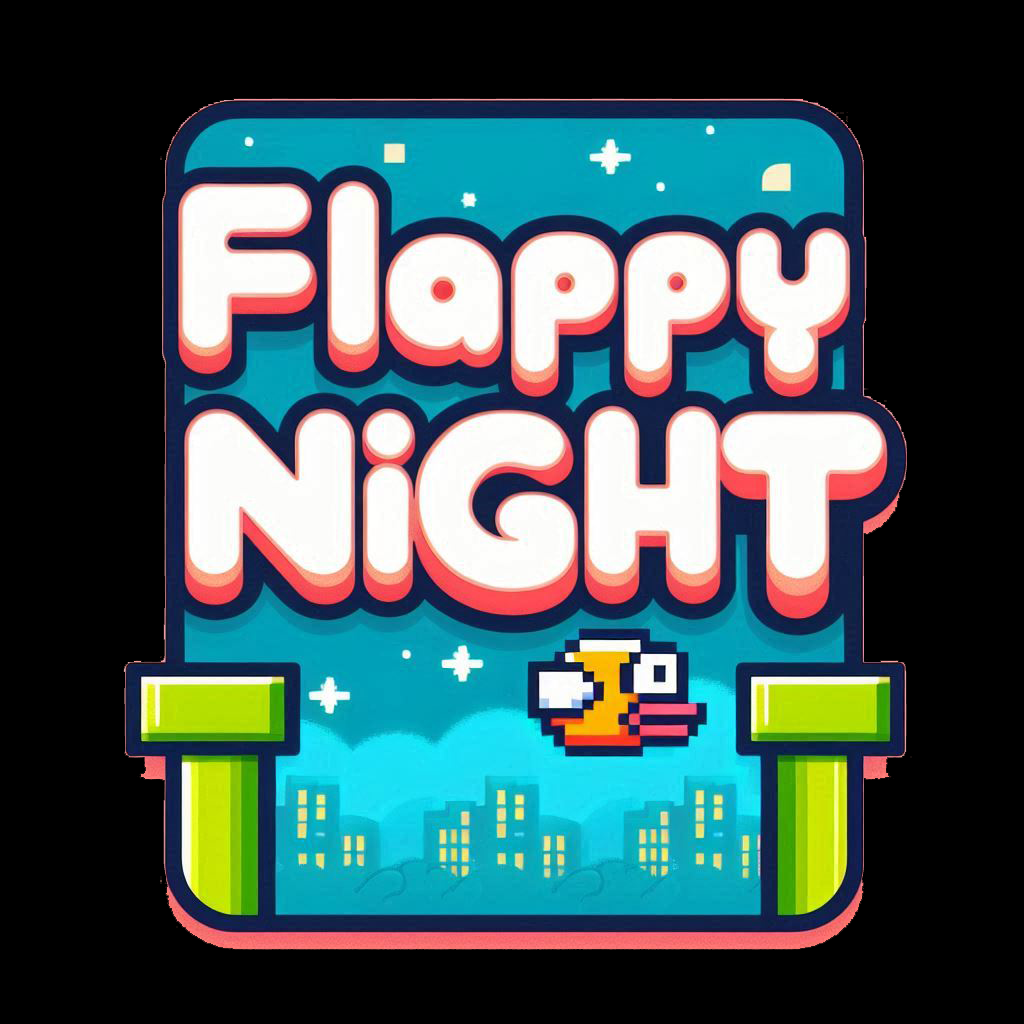
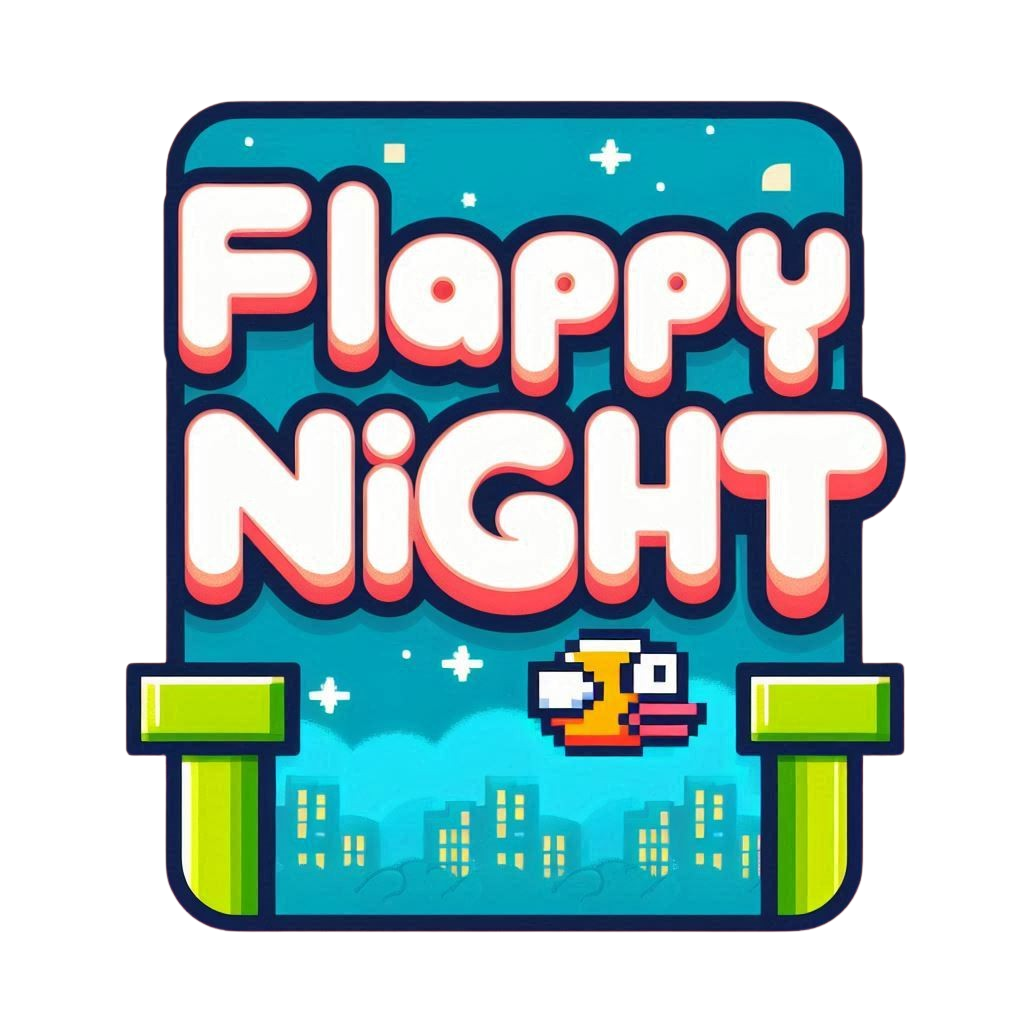
Fix Background Image

diff --git a/FlappyBird/src/GamePlay/Manager/gameLoop.cpp b/FlappyBird/src/GamePlay/Manager/gameLoop.cpp
@@ -18,7 +18,7 @@ static void initGame(Sprites::Sprites& sprites);
 
 static void update(bool& pause, float& spawmTimer, std::list<Pipe::PipeSet>& pipeSets, Sprites::Sprites& sprites, Sprites::SpriteMovement& spriteMovement);
 
-static void draw(const Texture2D& texture, Sprites::Sprites& sprites, std::list<Pipe::PipeSet>& pipeSets, float& spawmTimer, bool& pause,
+static void draw(Texture2D& texture, Sprites::Sprites& sprites, std::list<Pipe::PipeSet>& pipeSets, float& spawmTimer, bool& pause,
 	const Sprites::SpriteMovement& spriteMovement);
 
 static void close(Sprites::Sprites& sprites);
@@ -30,7 +30,7 @@ static Player::Player playerTwo = {};
 static bool isSinglePlayer = true;
 static Music menuMusic;
 static Music gameplayMusic;
-static Texture2D backgroundTexture;
+static Texture2D titleTexture;
 
 void mainLoop()
 {
@@ -46,8 +46,6 @@ void mainLoop()
 	gameState = Menu::Menus::MainMenu;
 	previousMenu = Menu::Menus::MainMenu;
 
-	Texture2D texture = {};
-
 	Sprites::Sprites sprites = {};
 	Sprites::SpriteMovement spriteMovement = {};
 	
@@ -59,7 +57,7 @@ void mainLoop()
 	{
 		update(pause, spawnTimer, pipeSets, sprites, spriteMovement);
 
-		draw(backgroundTexture, sprites, pipeSets, spawnTimer, pause, spriteMovement);
+		draw(titleTexture, sprites, pipeSets, spawnTimer, pause, spriteMovement);
 	}
 
 	close(sprites);
@@ -67,6 +65,12 @@ void mainLoop()
 
 void initGame(Sprites::Sprites& sprites)
 {
+#pragma warning(disable:4244)
+	srand(time(NULL));
+#pragma warning(default:4244)
+
+	InitWindow(static_cast<int>(screenWidth), static_cast<int>(screenHeight), "Flappy Bird");
+	
 	InitAudioDevice();
 	menuMusic = LoadMusicStream("res/main_menu_music.mp3");
 	gameplayMusic = LoadMusicStream("res/gameplay_music.mp3");
@@ -75,22 +79,15 @@ void initGame(Sprites::Sprites& sprites)
 	SetMusicVolume(gameplayMusic, 0.5f);
 	gameplayMusic.looping = true;
 
-	//backgroundTexture = LoadTexture("res/menu_img.png");
 
 	if (!IsMusicStreamPlaying(menuMusic))
 	{
 		PlayMusicStream(menuMusic);
 	}
 
-	
-
-#pragma warning(disable:4244)
-	srand(time(NULL));
-#pragma warning(default:4244)
-
-	InitWindow(static_cast<int>(screenWidth), static_cast<int>(screenHeight), "Flappy Bird");
-
 	Sprites::initSprites(sprites);
+
+	titleTexture = LoadTexture("res/menu_img.png");
 
 	playerOne.frameRec = { 0.0f, 0.0f, (float)sprites.playerOneSheet.width / 3, (float)sprites.playerOneSheet.height };
 
@@ -108,8 +105,6 @@ void update(bool& pause, float& spawmTimer, std::list<Pipe::PipeSet>& pipeSets, 
 
 		if (IsKeyPressed(KEY_ESCAPE))
 			gameState = Menu::Menus::WantToExit;
-
-		
 
 		UpdateMusicStream(menuMusic);
 		break;
@@ -207,7 +202,7 @@ void update(bool& pause, float& spawmTimer, std::list<Pipe::PipeSet>& pipeSets, 
 }
 
 
-void draw(const Texture2D& texture,	Sprites::Sprites& sprites, std::list<Pipe::PipeSet>& pipeSets, float& spawmTimer, bool& pause,
+void draw(Texture2D& texture,	Sprites::Sprites& sprites, std::list<Pipe::PipeSet>& pipeSets, float& spawmTimer, bool& pause,
 	const Sprites::SpriteMovement& spriteMovement)
 {
 	BeginDrawing();
@@ -287,7 +282,7 @@ void close(Sprites::Sprites& sprites)
 	UnloadMusicStream(menuMusic);
 	UnloadMusicStream(gameplayMusic);
 	CloseAudioDevice();
-	//UnloadTexture(backgroundTexture);
+	UnloadTexture(titleTexture);
 
 	Sprites::unloadSprites(sprites);
 
